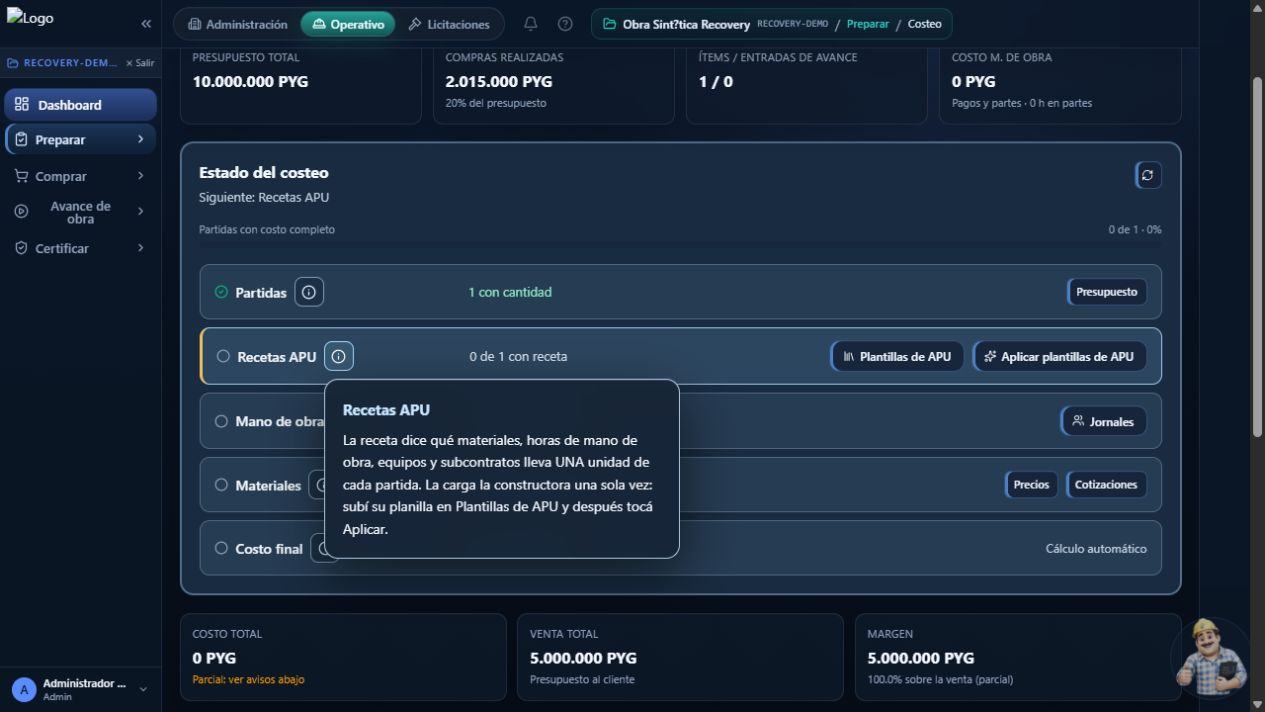
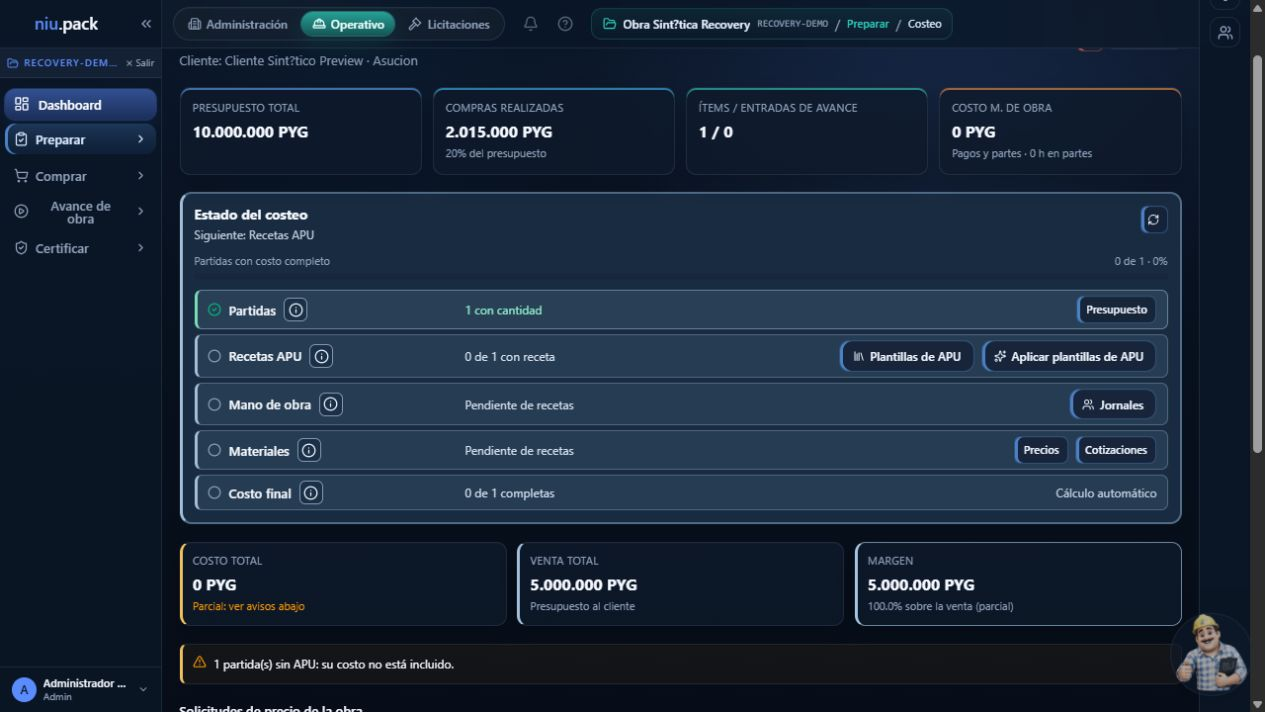
Compact cost panel and apply consistent card markers

diff --git a/app/(internal)/projects/[id]/costeo-checklist.module.css b/app/(internal)/projects/[id]/costeo-checklist.module.css
@@ -1,22 +1,27 @@
-.panel { border: 2px solid #526d89; border-radius: 14px; background: #182b40; padding: 18px; display: grid; gap: 16px; color: #f3f7fc; }
-.heading { font-size: 16px; font-weight: 650; line-height: 1.35; }
-.subtitle { font-size: 13px; color: #c4d2e2; margin-top: 4px; }
-.rows { display: grid; gap: 8px; }
-.row { display: grid; grid-template-columns: minmax(155px,.8fr) minmax(170px,1fr) minmax(200px,1.2fr); align-items: center; gap: 12px; padding: 12px 14px; border: 1px solid #52687f; border-radius: 10px; background: #263c53; transition: border-color 150ms, background 150ms; }
+.panel { border: 2px solid #526d89; border-left: 3px solid #a4bed8; border-radius: 12px; background: #182b40; padding: 12px; display: grid; gap: 10px; color: #f3f7fc; }
+.card { border-left: 3px solid #a4bed8; transition: border-color 150ms, box-shadow 150ms; }
+.card:hover, .card:focus-within { border-color: #a5c9e9; box-shadow: inset 0 0 0 1px #a5c9e925; }
+.card[data-state=warn] { border-left-color: #efc15e; }
+.heading { font-size: 14px; font-weight: 650; line-height: 1.3; }
+.subtitle { font-size: 12px; color: #c4d2e2; margin-top: 2px; }
+.rows { display: grid; gap: 5px; }
+.row { display: grid; grid-template-columns: minmax(155px,.8fr) minmax(170px,1fr) minmax(200px,1.2fr); align-items: center; gap: 10px; padding: 5px 10px; border: 1px solid #52687f; border-left: 3px solid #a4bed8; border-radius: 7px; background: #263c53; transition: border-color 150ms, background 150ms; }
 .row:hover, .row:focus-within { background: #2d465f; border-color: #a5c9e9; }
-.row[data-next] { border-left: 3px solid #efc15e; }
+.row[data-state=done] { border-left-color: #78dcb5; }
+.row[data-state=warn] { border-left-color: #efc15e; }
+.row[data-state=pending] { border-left-color: #a4bed8; }
 .identity { display: flex; align-items: center; gap: 8px; min-width: 0; }
 .identity > svg { margin: 0; }
-.title { font-size: 14px; font-weight: 600; }
-.status { font-size: 13px; line-height: 1.4; color: #d4dfec; }
+.title { font-size: 13px; font-weight: 600; }
+.status { font-size: 12px; line-height: 1.35; color: #d4dfec; }
 .status[data-state=done] { color: #8ce9c6; }
 .status[data-state=warn] { color: #ffda87; }
 .actions { display: flex; justify-content: flex-end; align-items: center; gap: 8px; }
 .passive { font-size: 12px; color: #c4d2e2; }
-.helpButton { flex-shrink: 0; display: inline-flex; justify-content: center; align-items: center; width: 30px; height: 30px; border: 1px solid #8098b1; border-radius: 8px; color: #e9f4ff; background: #1b3046; cursor: help; }
+.helpButton { flex-shrink: 0; display: inline-flex; justify-content: center; align-items: center; width: 24px; height: 24px; border: 1px solid #8098b1; border-radius: 6px; color: #e9f4ff; background: #1b3046; cursor: help; }
 .helpButton:hover, .helpButton[aria-expanded=true] { border-color: #a9dbff; color: #fff; background: #385872; }
 .helpButton:focus-visible { outline: 2px solid #a9dbff; outline-offset: 3px; }
-.helpPopup { position: fixed; z-index: 180; width: min(360px,calc(100vw - 24px)); max-height: min(420px,70vh); overflow-y: auto; padding: 18px; border: 1px solid #adc7e2; border-radius: 14px; background: rgba(22,36,54,.96); backdrop-filter: blur(18px); -webkit-backdrop-filter: blur(18px); box-shadow: 0 18px 54px #0009,inset 0 1px 0 #ffffff25; color: #f4f8ff; font-size: 14px; line-height: 1.6; }
-.helpPopup strong { display: block; margin-bottom: 8px; color: #c5e5ff; font-size: 15px; font-weight: 650; }
+.helpPopup { position: fixed; z-index: 180; width: min(300px,calc(100vw - 24px)); max-height: min(320px,65vh); overflow-y: auto; padding: 12px; border: 1px solid #adc7e2; border-radius: 10px; background: rgba(22,36,54,.96); backdrop-filter: blur(18px); -webkit-backdrop-filter: blur(18px); box-shadow: 0 12px 32px #0009,inset 0 1px 0 #ffffff25; color: #f4f8ff; font-size: 13px; line-height: 1.45; }
+.helpPopup strong { display: block; margin-bottom: 5px; color: #c5e5ff; font-size: 13px; font-weight: 650; }
 @media (max-width: 1000px) { .row { grid-template-columns: minmax(150px,1fr) minmax(170px,1fr); } .actions { grid-column: 1/-1; justify-content: flex-start; } }
 @media (max-width: 560px) { .panel { padding: 12px; } .row { grid-template-columns: 1fr; gap: 7px; } .actions { grid-column: auto; } }

diff --git a/app/(internal)/projects/[id]/costeo-checklist.tsx b/app/(internal)/projects/[id]/costeo-checklist.tsx
@@ -63,7 +63,7 @@ export function CosteoChecklist({
       title: "Recetas APU",
       state: total > 0 && conApu === total ? "done" : conApu > 0 ? "warn" : "pending",
       detail: `${conApu} de ${total} con receta`,
-      help: "La receta dice qué materiales, horas de mano de obra, equipos y subcontratos lleva UNA unidad de cada partida. La carga la constructora una sola vez: subí su planilla en Plantillas de APU y después tocá Aplicar.",
+      help: "Define materiales, horas de trabajo, equipos y subcontratos por unidad. Cargá la planilla en Plantillas de APU y aplicala a las partidas.",
       actions: (
         <div className="flex flex-wrap items-start gap-2">
           <ApuTemplatesDialog />
@@ -80,7 +80,7 @@ export function CosteoChecklist({
           : conApu > 0
             ? "Sin mano de obra en las recetas"
             : "Pendiente de recetas",
-      help: "El costo por hora de cada categoría (oficial, ayudante…) con sus cargas sociales sale de la tabla de Jornales, que se carga una sola vez para toda la empresa.",
+      help: "El costo por hora, incluidas las cargas sociales, sale de Jornales. Se configura por categoría para toda la empresa.",
       actions: <LaborRatesDialog />,
     },
     {
@@ -91,7 +91,7 @@ export function CosteoChecklist({
           ? "Pendiente de recetas"
           : `${insumosConPrecio} de ${insumosTotal} con precio` +
             (insumosSinRubro > 0 ? ` · ${insumosSinRubro} sin rubro` : ""),
-      help: "El precio de un material sale, en este orden, de: el que elijas para esta obra, la cotización más barata de tus proveedores, el historial de compras, o el costo promedio del stock. Para conseguirlo: usá «Cotizar insumos» en Costeo o cargá un precio a mano con «Cambiar» en la lista de insumos de abajo. Los materiales sin rubro necesitan una categoría en Stock para pedir precios a proveedores.",
+      help: "Usa primero el precio elegido para la obra; después, la oferta más barata, el historial de compras o el costo promedio del stock. Pedí ofertas con Cotizar insumos o ajustá el precio con Cambiar. Para cotizar, el material necesita rubro.",
       actions: (
         <div className="flex flex-wrap items-center gap-2">
           <Link href="/precios" className={buttonClassName({ variant: "secondary", size: "sm" })}>
@@ -107,7 +107,7 @@ export function CosteoChecklist({
       title: "Costo final",
       state: total > 0 && costeadas === total ? "done" : costeadas > 0 ? "warn" : "pending",
       detail: `${costeadas} de ${total} completas`,
-      help: "Una partida tiene costo completo cuando tiene receta y todos sus materiales tienen precio. Recién ahí se calcula su costo, su margen contra el precio de venta y el total de la obra.",
+      help: "Se calcula cuando la partida tiene receta y todos sus materiales tienen precio. Incluye costo, margen y total de la obra.",
     },
   ];
 
@@ -145,7 +145,7 @@ export function CosteoChecklist({
 
       <ol className={styles.rows}>
         {steps.map((s) => (
-          <li key={s.title} className={styles.row} data-next={s === next || undefined}>
+          <li key={s.title} className={styles.row} data-state={s.state}>
             <div className={styles.identity}><StateIcon state={s.state} /><span className={styles.title}>{s.title}</span><CosteoHelp title={s.title}>{s.help}</CosteoHelp></div>
             <p className={styles.status} data-state={s.state}>{s.detail}</p>
             <div className={styles.actions}>{s.actions ?? <span className={styles.passive}>Cálculo automático</span>}</div>

diff --git a/app/(internal)/projects/[id]/costeo-section.tsx b/app/(internal)/projects/[id]/costeo-section.tsx
@@ -18,6 +18,7 @@ import {
 } from "./costeo-actions";
 import { CosteoChecklist } from "./costeo-checklist";
 import { CostRfqDialog } from "./cost-rfq-dialog";
+import styles from "./costeo-checklist.module.css";
 
 const FUENTE_LABEL: Record<string, string> = {
   COTIZACION: "Cotización",
@@ -80,7 +81,7 @@ export function CosteoSection({ projectId, isCaterpillar }: { projectId: string;
       </div>
 
       {!totals.completo ? (
-        <div className="flex items-start gap-2 rounded-lg border border-amber-500/30 bg-amber-500/5 p-3 text-[12px]">
+        <div className={`${styles.card} flex items-start gap-2 rounded-lg border border-amber-500/30 bg-amber-500/5 p-3 text-[12px]`} data-state="warn">
           <AlertTriangle className="h-4 w-4 shrink-0 text-amber-500" />
           <div>
             {totals.partidasSinApu > 0 ? <p>{totals.partidasSinApu} partida(s) sin APU: su costo no está incluido.</p> : null}
@@ -346,7 +347,7 @@ function RealVsBudgetSection({ projectId }: { projectId: string }) {
 
 function Kpi({ label, value, note, warn }: { label: string; value: string; note: string; warn?: boolean }) {
   return (
-    <div className="rounded-xl border border-[var(--border)] bg-[var(--panel)] p-3.5">
+    <div className={`${styles.card} rounded-xl border border-[var(--border)] bg-[var(--panel)] p-3`} data-state={warn ? "warn" : "pending"}>
       <div className="text-[11px] text-[var(--muted)] uppercase tracking-wide">{label}</div>
       <div className="text-[16px] font-bold mt-1">{value}</div>
       <div className={`text-[11px] mt-0.5 ${warn ? "text-amber-500" : "text-[var(--muted)]"}`}>{note}</div>
@@ -365,7 +366,7 @@ function Section({ title, children }: { title: string; children: React.ReactNode
 
 function Table({ head, children }: { head: string[]; children: React.ReactNode }) {
   return (
-    <div className="rounded-lg border border-[var(--border)] bg-[var(--panel)] overflow-x-auto">
+    <div className={`${styles.card} rounded-lg border border-[var(--border)] bg-[var(--panel)] overflow-x-auto`}>
       <table>
         <thead>
           <tr>
